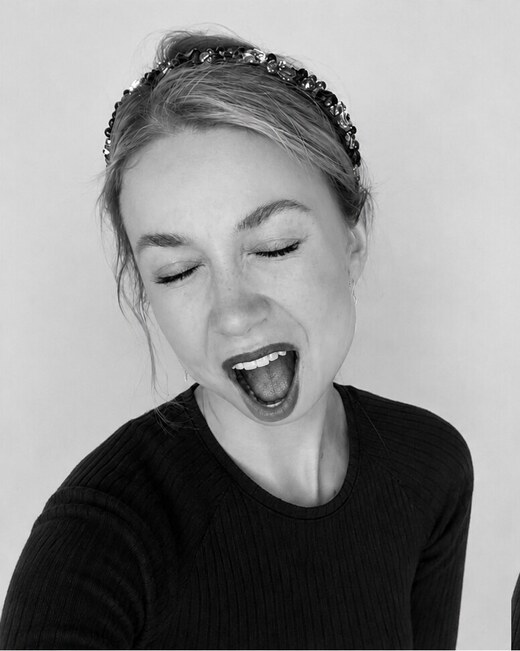
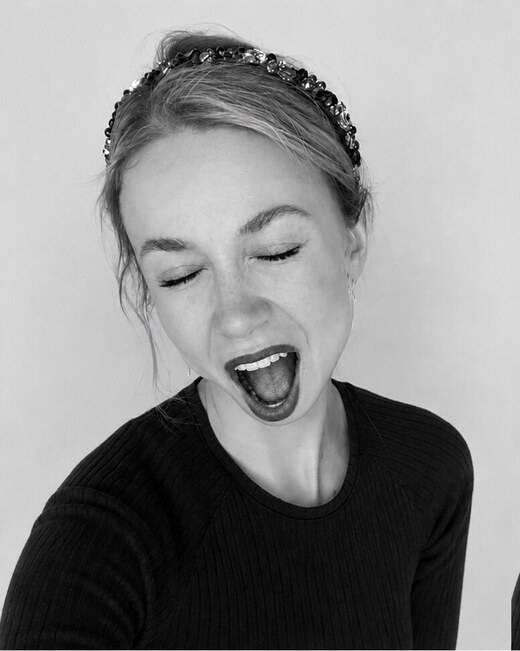
Refine KS hero jaw transition

diff --git a/ks/AGENTS.md b/ks/AGENTS.md
@@ -114,11 +114,12 @@ Below that it is an ordinary flowing document.
 
 - Two frames cross-fade in the same box: `assets/portrait/calm-*` and
   `assets/portrait/wink-*`. The hover expression comes from the client's exact
-  reference in `source-assets/portrait-rock-reference.png`; its face is
-  registered into the calm frame while the background, hair, headband, clothes
-  and crop stay fixed. Do not independently crop, scale or reposition either
-  export — anything outside the facial-expression blend moving between frames
-  breaks the illusion of a single continuous shot.
+  reference in `source-assets/portrait-rock-reference.png`; its complete face,
+  including the lower oval, jawline and chin, is registered into the calm frame.
+  The head position, hair, headband, neck, shoulders, clothes, background and
+  crop stay fixed. Do not independently crop, scale or reposition either export
+  — anything outside the facial-expression blend moving between frames breaks
+  the illusion of a single continuous shot.
 - The frame is `aspect-ratio: 776 / 971`, the exact aspect of the source pair,
   and the images are `object-fit: cover` with no `object-position` shift. Zero
   crop means zero drift between the two states.

diff --git a/ks/README.md b/ks/README.md
@@ -21,8 +21,9 @@ project on the owner's `cz` server.
 
 The hero's rock-expression source is preserved at
 [`source-assets/portrait-rock-reference.png`](./source-assets/portrait-rock-reference.png).
-The published hover exports keep the calm frame fixed outside the blended
-facial-expression region so the cross-fade reads as one continuous portrait.
+The published hover exports transfer the complete facial oval, including the
+jawline and chin, while keeping the head position, hair, neck, shoulders and
+body fixed so the cross-fade reads as one continuous portrait.
 
 ## Source of truth
 
